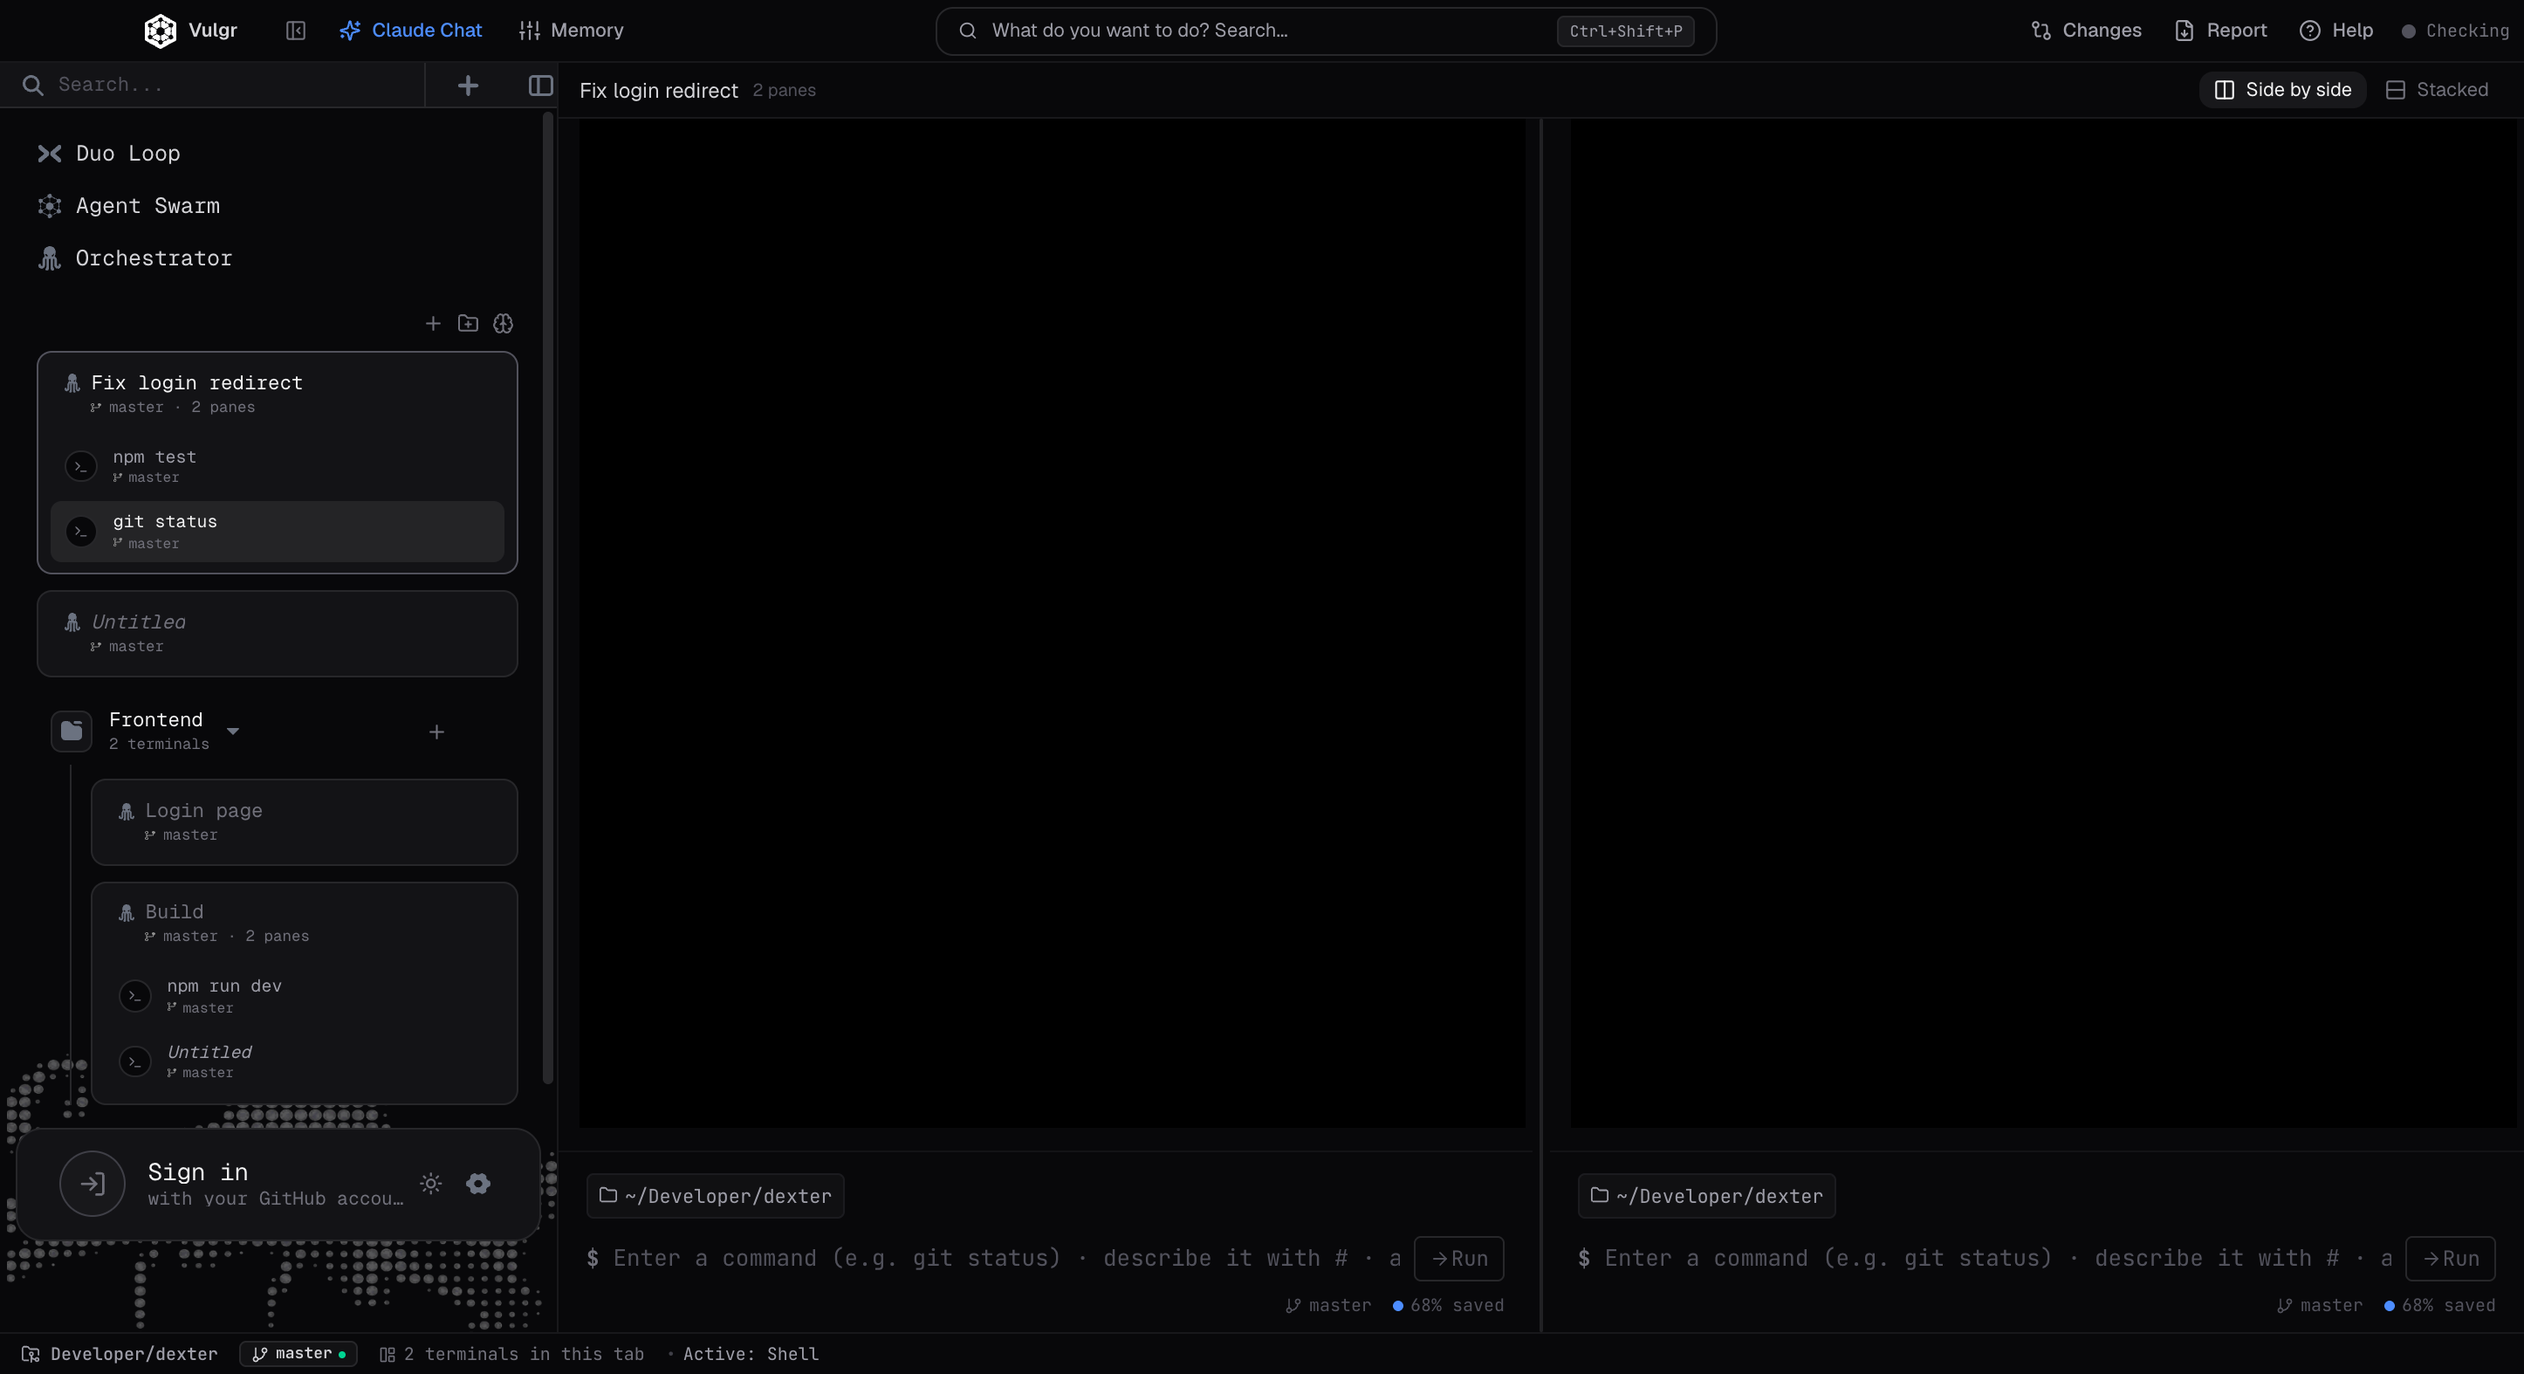
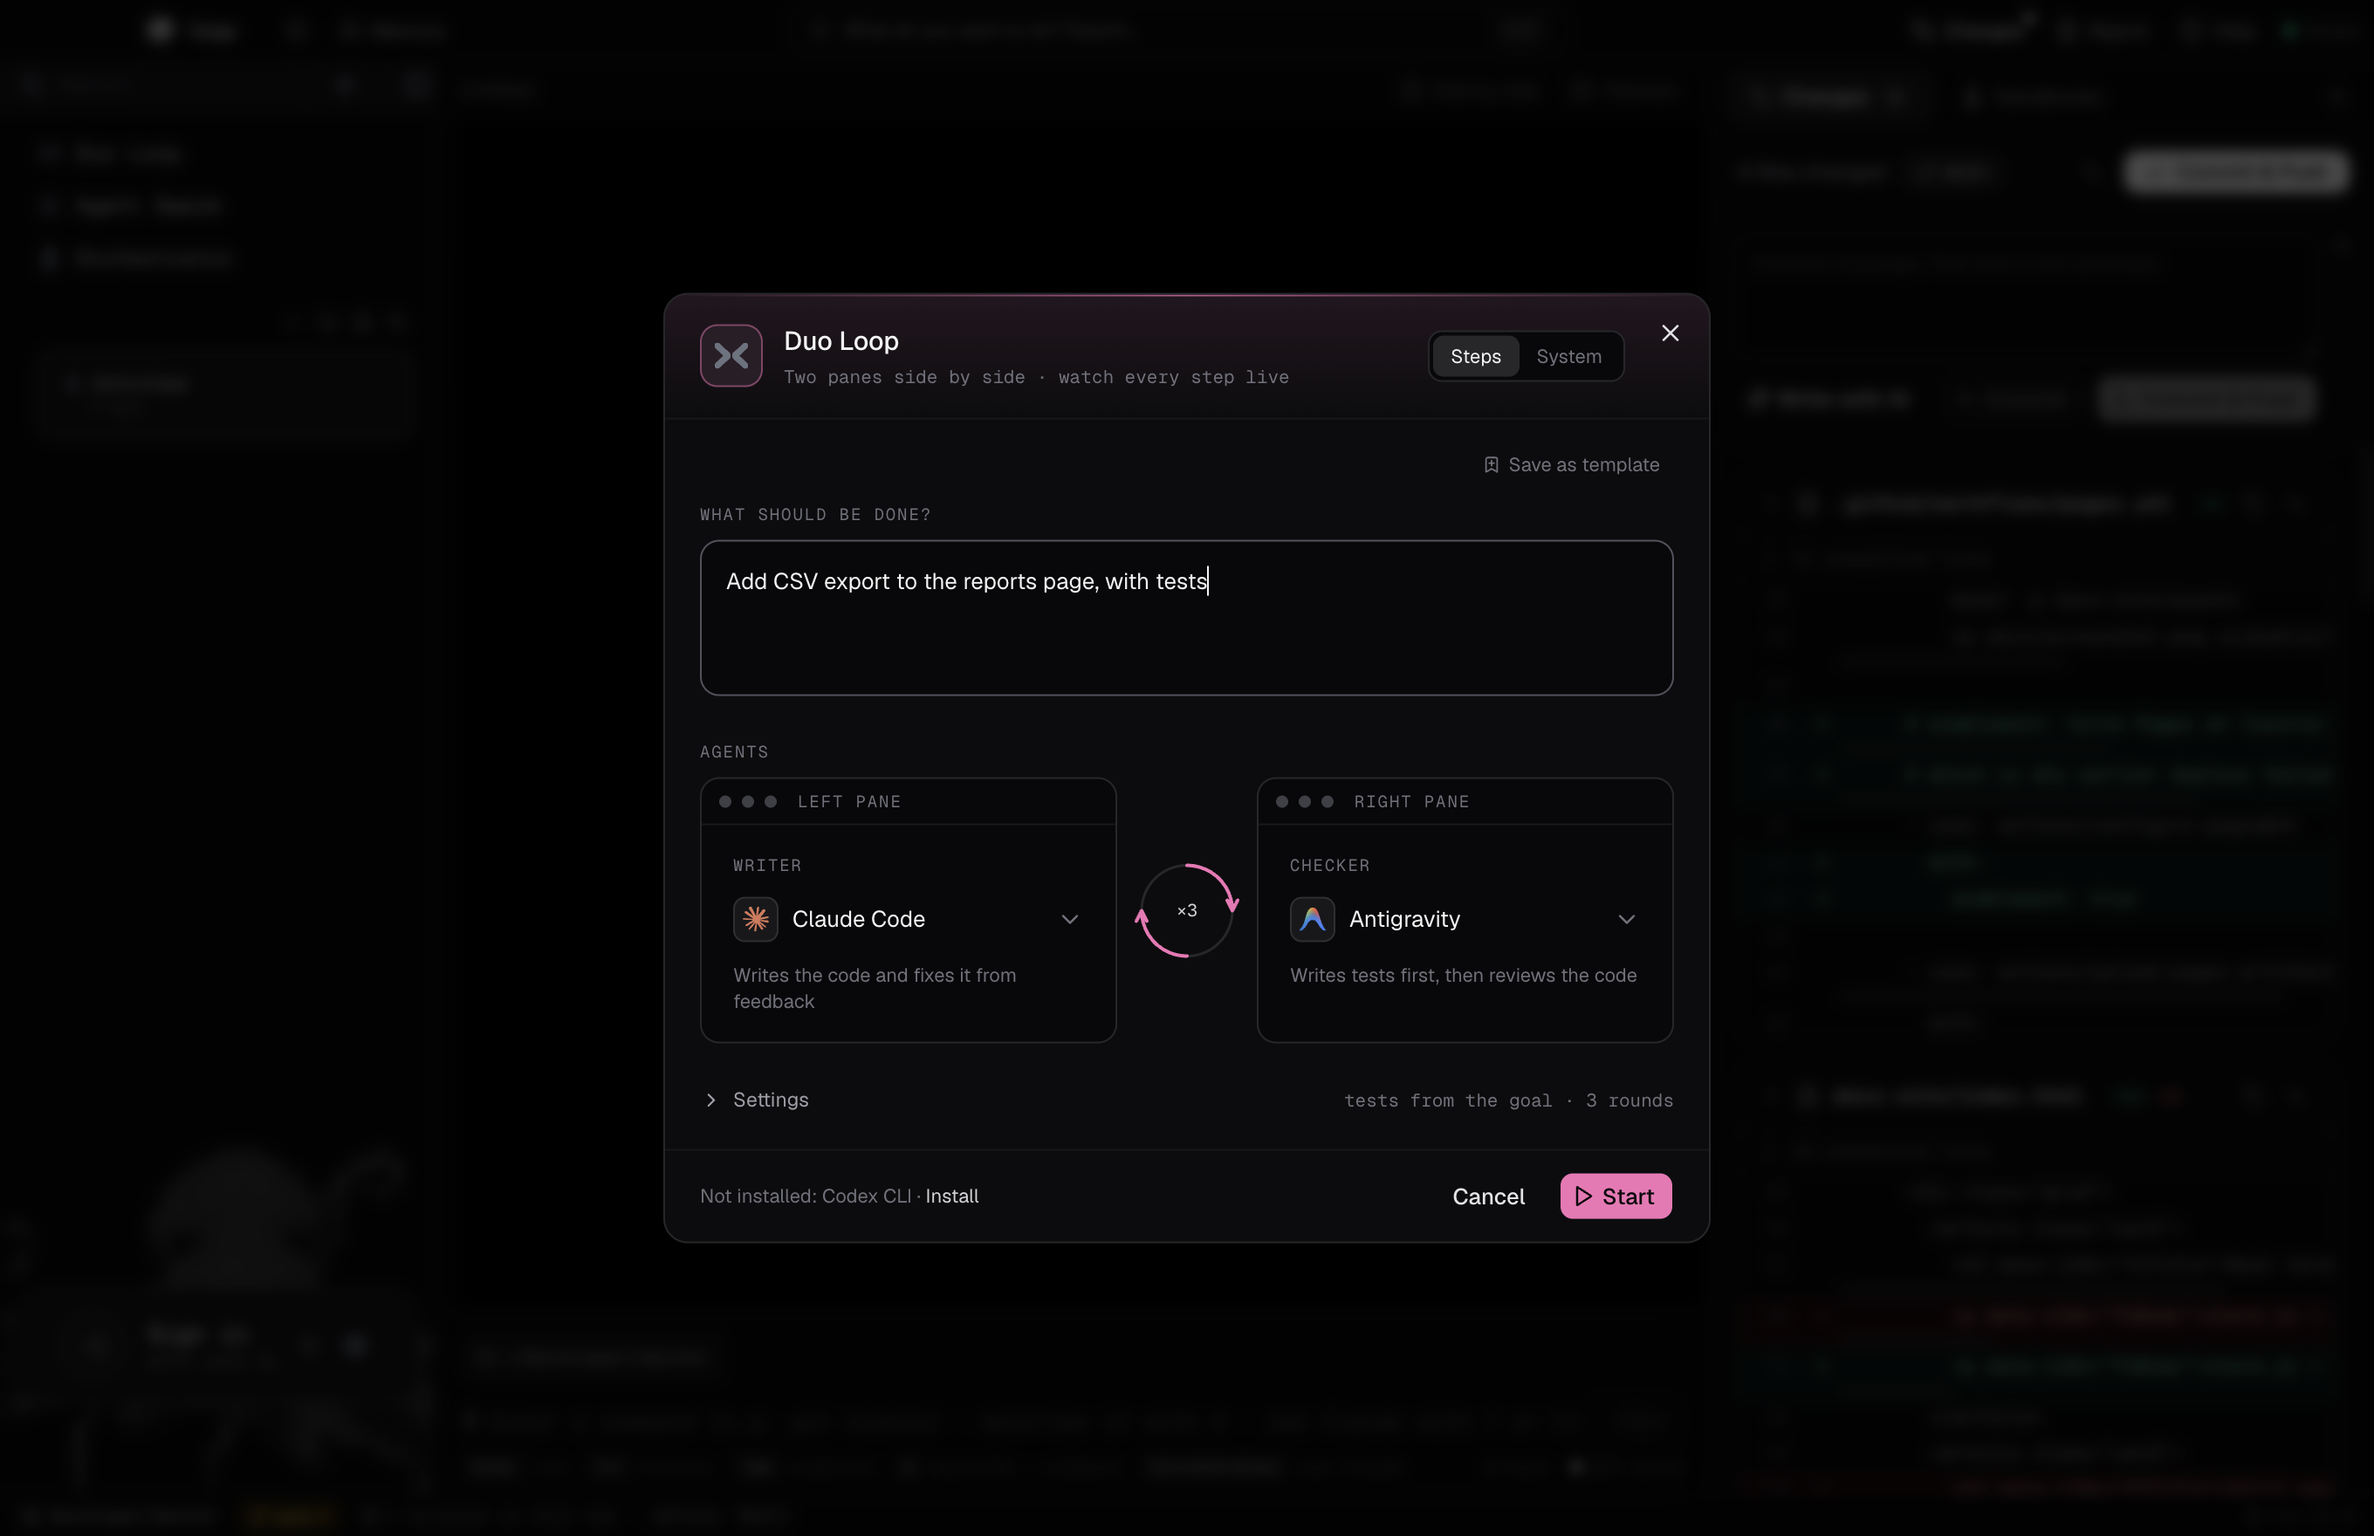
site: new features, black-and-white look, fresh screenshot
vulgr.tech's feature cards (English and Turkish) now cover Orchestrator,
run history with tokens and cost, the git features (AI commits, branches,
pull requests), self-updating on every platform, eight languages,
shortcuts, templates and notifications. The blue accent becomes the
site's off-white, and the screenshot shows the current app. The Pages
workflow now turns Pages on if needed, which is where earlier deploys
failed.

diff --git a/docs-site/script.js b/docs-site/script.js
@@ -22,21 +22,21 @@
       recommended: 'Recommended for you',
       featuresTitle: 'Features',
       f1Title: 'Real terminals',
-      f1Body: 'xterm.js + node-pty, so agent TUIs, colors and prompts work as they do in your normal terminal.',
-      f2Title: 'Split panes',
-      f2Body: 'Open terminals side by side or stacked; every pane has its own command box.',
-      f3Title: 'Sessions and groups',
-      f3Body: 'Tabs name themselves after the work done in them, can be renamed, dragged into groups, and are restored on the next launch.',
-      f4Title: 'Command box',
-      f4Body: 'Run commands as blocks with duration and output, describe a command in plain words with <code>#</code>, or ask Claude with <code>?</code>.',
-      f5Title: 'Agents working together',
-      f5Body: 'Duo Loop: one agent writes, another tests until it passes. Agent Swarm: writer, checker and auditor agents run one goal, optionally in an isolated git worktree. Claude Chat: watch file changes live.',
-      f6Title: 'Changes, report, memory',
-      f6Body: 'Review the diff and commit & push, export the session as Markdown/HTML/JSON, and keep project rules the agents always receive.',
-      f7Title: 'Automatic updates',
-      f7Body: 'Windows and Linux builds update themselves in the background; on macOS, Vulgr tells you when a new version is out.',
+      f1Body: 'xterm.js + node-pty, so agent TUIs, colors and prompts work as in your normal terminal. Find text in a pane and save its output to a file.',
+      f2Title: 'Panes, sessions and groups',
+      f2Body: 'Split terminals side by side or stacked, each with its own command box. Tabs name themselves, sort into groups and come back on the next launch.',
+      f3Title: 'Command box',
+      f3Body: 'Run commands as blocks with duration and output, describe a command in plain words with <code>#</code>, or ask Claude with <code>?</code>.',
+      f4Title: 'Agents working together',
+      f4Body: 'Duo Loop: one agent writes, another tests. Agent Swarm: writer, checker and auditor on one goal. Orchestrator: a goal split into tasks that agents do in parallel. Pause, stop or restart one agent at any time.',
+      f5Title: 'History, tokens and cost',
+      f5Body: 'Every run is saved with a map you can replay, the real tokens and cost the agents reported, and a cost limit that stops a run. Run any of them again in one click.',
+      f6Title: 'Git built in',
+      f6Body: 'AI-written commit messages, commit & push, a branch switcher, and pull requests whose description an agent writes. Review every change before it lands.',
+      f7Title: 'Updates itself',
+      f7Body: 'A gift icon appears when a new version is ready; one click restarts into it, on macOS, Windows and Linux.',
       f8Title: 'Made to fit in',
-      f8Body: 'GitHub sign-in, dark and light themes, English and Turkish interface.',
+      f8Body: 'Eight interface languages, dark and light themes, your own keyboard shortcuts, saved templates for goals and teams, and system notifications when a run ends.',
       downloadTitle: 'Download',
       downloadLead: 'Pick the build for your computer. Every file is on the GitHub Releases page.',
       macArm: 'Apple Silicon (M1 or later)',
@@ -65,21 +65,21 @@
       recommended: 'Sizin için önerilen',
       featuresTitle: 'Özellikler',
       f1Title: 'Gerçek terminaller',
-      f1Body: 'xterm.js + node-pty sayesinde ajan arayüzleri, renkler ve istemler normal terminalinizdeki gibi çalışır.',
-      f2Title: 'Bölünmüş paneller',
-      f2Body: 'Terminalleri yan yana ya da alt alta açın; her panelin kendi komut kutusu var.',
-      f3Title: 'Oturumlar ve gruplar',
-      f3Body: 'Sekmeler içinde yapılan işe göre kendini adlandırır; yeniden adlandırılabilir, gruplara sürüklenebilir ve bir sonraki açılışta geri yüklenir.',
-      f4Title: 'Komut kutusu',
-      f4Body: 'Komutları süre ve çıktısıyla bloklar halinde çalıştırın, <code>#</code> ile bir komutu düz cümleyle tarif edin ya da <code>?</code> ile Claude\'a sorun.',
-      f5Title: 'Birlikte çalışan ajanlar',
-      f5Body: 'Duo Loop: bir ajan yazar, diğeri testler geçene kadar dener. Agent Swarm: yazan, kontrol eden ve denetleyen ajanlar tek bir hedef üzerinde, isterseniz ayrı bir git worktree içinde çalışır. Claude Chat: dosya değişikliklerini canlı izleyin.',
-      f6Title: 'Değişiklikler, rapor, hafıza',
-      f6Body: 'Farkları inceleyip commit & push yapın, oturumu Markdown/HTML/JSON olarak dışa aktarın, ajanların her zaman alacağı proje kurallarını saklayın.',
-      f7Title: 'Otomatik güncelleme',
-      f7Body: 'Windows ve Linux sürümleri arka planda kendini günceller; macOS\'ta Vulgr yeni sürüm çıktığında size haber verir.',
-      f8Title: 'Size uyum sağlar',
-      f8Body: 'GitHub ile giriş, koyu ve açık tema, İngilizce ve Türkçe arayüz.',
+      f1Body: 'xterm.js + node-pty sayesinde ajan arayüzleri, renkler ve istemler normal terminalindeki gibi çalışır. Panelde metin ara, çıktısını dosyaya kaydet.',
+      f2Title: 'Paneller, oturumlar ve gruplar',
+      f2Body: 'Terminalleri yan yana ya da alt alta böl, her birinin kendi komut kutusu olsun. Sekmeler kendini adlandırır, gruplara ayrılır ve bir sonraki açılışta geri gelir.',
+      f3Title: 'Komut kutusu',
+      f3Body: 'Komutları süre ve çıktısıyla bloklar halinde çalıştır, <code>#</code> ile bir komutu düz cümleyle tarif et ya da <code>?</code> ile Claude\'a sor.',
+      f4Title: 'Birlikte çalışan ajanlar',
+      f4Body: 'Duo Loop: bir ajan yazar, diğeri test eder. Agent Swarm: yazan, kontrol eden ve denetleyen ajanlar tek hedefte. Orchestrator: hedef görevlere bölünür, ajanlar paralel çalışır. İstediğin an duraklat, durdur ya da tek bir ajanı yeniden başlat.',
+      f5Title: 'Geçmiş, token ve maliyet',
+      f5Body: 'Her çalışma tekrar oynatılabilen haritasıyla, ajanların bildirdiği gerçek token ve maliyetle kaydedilir; maliyet sınırı çalışmayı durdurur. Herhangi birini tek tıkla tekrar çalıştır.',
+      f6Title: 'Git içinde',
+      f6Body: 'Yapay zekânın yazdığı commit mesajları, commit & push, dal değiştirici ve açıklamasını ajanın yazdığı pull request\'ler. Her değişikliği uygulanmadan önce incele.',
+      f7Title: 'Kendini günceller',
+      f7Body: 'Yeni sürüm hazır olunca bir hediye simgesi çıkar; tek tıkla yeni sürümle yeniden açılır. macOS, Windows ve Linux\'ta.',
+      f8Title: 'Sana uyum sağlar',
+      f8Body: 'Sekiz arayüz dili, koyu ve açık tema, kendi klavye kısayolların, hedef ve ekip şablonları, çalışma bitince sistem bildirimi.',
       downloadTitle: 'İndir',
       downloadLead: 'Bilgisayarınıza uygun sürümü seçin. Tüm dosyalar GitHub Releases sayfasında.',
       macArm: 'Apple Silicon (M1 ve sonrası)',

diff --git a/docs-site/index.html b/docs-site/index.html
@@ -61,7 +61,7 @@
     </section>
 
     <figure class="shot">
-      <img src="assets/screenshot.png" alt="Vulgr with a split tab, groups and per-pane command boxes" width="2892" height="1574" />
+      <img src="assets/screenshot.png" alt="Vulgr starting a Duo Loop: one agent writes the code, another checks it" width="2720" height="1760" />
     </figure>
 
     <section id="features" class="section">
@@ -69,35 +69,35 @@
       <div class="grid">
         <article class="card">
           <h3 data-i18n="f1Title">Real terminals</h3>
-          <p data-i18n="f1Body">xterm.js + node-pty, so agent TUIs, colors and prompts work as they do in your normal terminal.</p>
+          <p data-i18n="f1Body">xterm.js + node-pty, so agent TUIs, colors and prompts work as in your normal terminal. Find text in a pane and save its output to a file.</p>
         </article>
         <article class="card">
-          <h3 data-i18n="f2Title">Split panes</h3>
-          <p data-i18n="f2Body">Open terminals side by side or stacked; every pane has its own command box.</p>
+          <h3 data-i18n="f2Title">Panes, sessions and groups</h3>
+          <p data-i18n="f2Body">Split terminals side by side or stacked, each with its own command box. Tabs name themselves, sort into groups and come back on the next launch.</p>
         </article>
         <article class="card">
-          <h3 data-i18n="f3Title">Sessions and groups</h3>
-          <p data-i18n="f3Body">Tabs name themselves after the work done in them, can be renamed, dragged into groups, and are restored on the next launch.</p>
+          <h3 data-i18n="f3Title">Command box</h3>
+          <p data-i18n-html="f3Body">Run commands as blocks with duration and output, describe a command in plain words with <code>#</code>, or ask Claude with <code>?</code>.</p>
         </article>
         <article class="card">
-          <h3 data-i18n="f4Title">Command box</h3>
-          <p data-i18n-html="f4Body">Run commands as blocks with duration and output, describe a command in plain words with <code>#</code>, or ask Claude with <code>?</code>.</p>
+          <h3 data-i18n="f4Title">Agents working together</h3>
+          <p data-i18n="f4Body">Duo Loop: one agent writes, another tests. Agent Swarm: writer, checker and auditor on one goal. Orchestrator: a goal split into tasks that agents do in parallel. Pause, stop or restart one agent at any time.</p>
         </article>
         <article class="card">
-          <h3 data-i18n="f5Title">Agents working together</h3>
-          <p data-i18n="f5Body">Duo Loop: one agent writes, another tests until it passes. Agent Swarm: writer, checker and auditor agents run one goal, optionally in an isolated git worktree. Claude Chat: watch file changes live.</p>
+          <h3 data-i18n="f5Title">History, tokens and cost</h3>
+          <p data-i18n="f5Body">Every run is saved with a map you can replay, the real tokens and cost the agents reported, and a cost limit that stops a run. Run any of them again in one click.</p>
         </article>
         <article class="card">
-          <h3 data-i18n="f6Title">Changes, report, memory</h3>
-          <p data-i18n="f6Body">Review the diff and commit &amp; push, export the session as Markdown/HTML/JSON, and keep project rules the agents always receive.</p>
+          <h3 data-i18n="f6Title">Git built in</h3>
+          <p data-i18n="f6Body">AI-written commit messages, commit &amp; push, a branch switcher, and pull requests whose description an agent writes. Review every change before it lands.</p>
         </article>
         <article class="card">
-          <h3 data-i18n="f7Title">Automatic updates</h3>
-          <p data-i18n="f7Body">Windows and Linux builds update themselves in the background; on macOS, Vulgr tells you when a new version is out.</p>
+          <h3 data-i18n="f7Title">Updates itself</h3>
+          <p data-i18n="f7Body">A gift icon appears when a new version is ready; one click restarts into it, on macOS, Windows and Linux.</p>
         </article>
         <article class="card">
           <h3 data-i18n="f8Title">Made to fit in</h3>
-          <p data-i18n="f8Body">GitHub sign-in, dark and light themes, English and Turkish interface.</p>
+          <p data-i18n="f8Body">Eight interface languages, dark and light themes, your own keyboard shortcuts, saved templates for goals and teams, and system notifications when a run ends.</p>
         </article>
       </div>
     </section>

diff --git a/docs-site/style.css b/docs-site/style.css
@@ -5,7 +5,7 @@
   --border: #262626;
   --text: #f5f5f5;
   --muted: #a3a3a3;
-  --accent: #60a5fa;
+  --accent: #f5f5f5;
   --warn-bg: #1f1a0f;
   --warn-border: #4a3b14;
   --sans: "Geist", system-ui, -apple-system, "Segoe UI", sans-serif;
